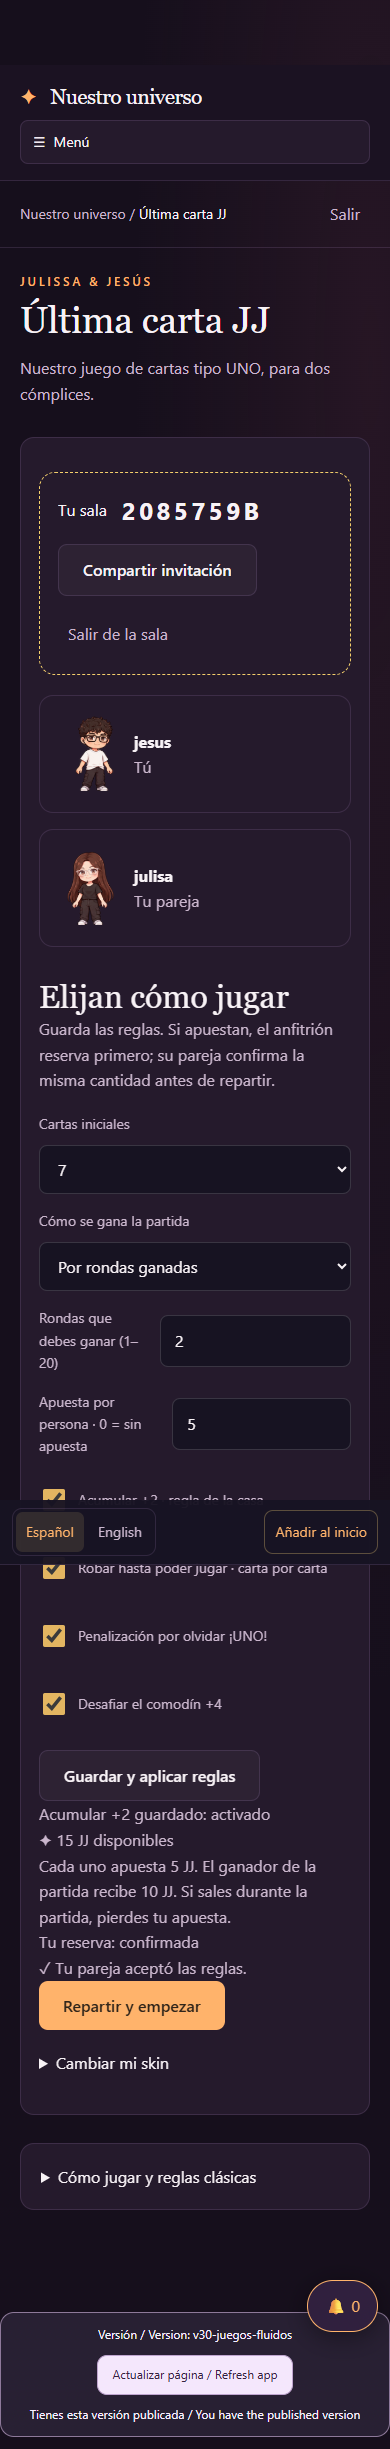
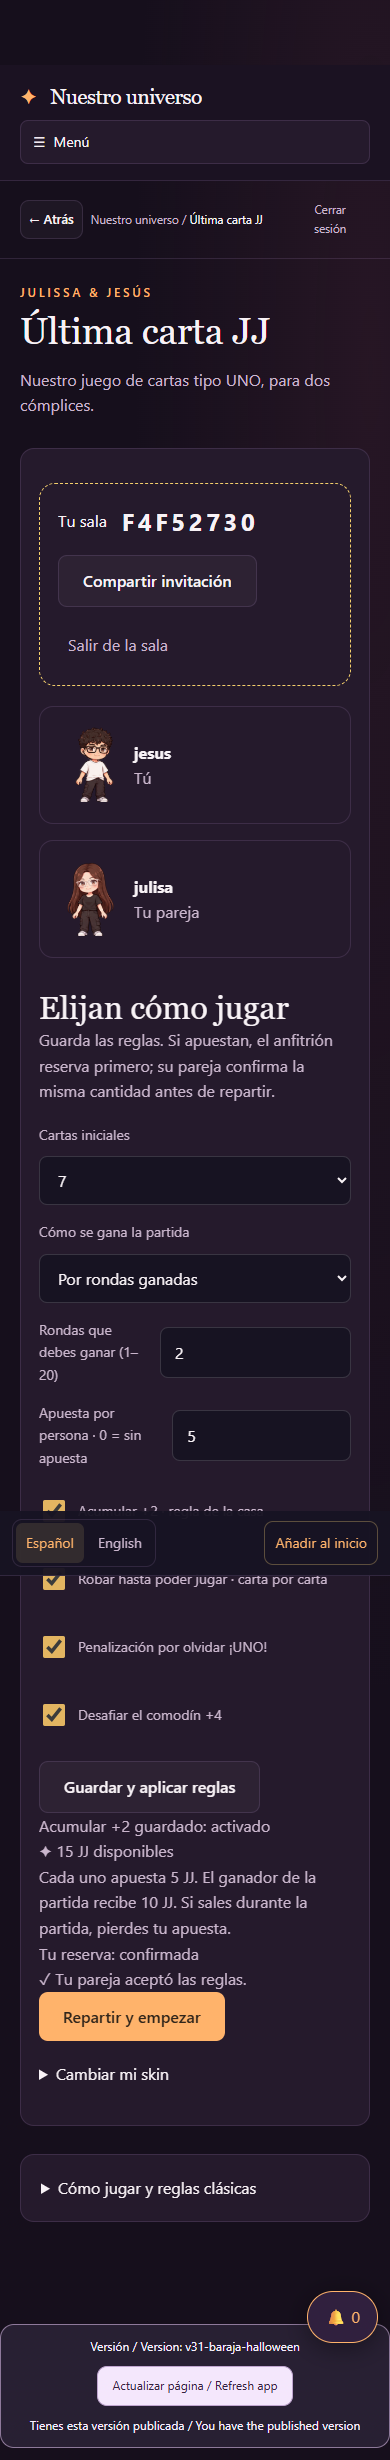
Añadir Atrás sin cerrar sesión, disfraces Halloween y baraja inglesa

diff --git a/jj-playing-cards.js b/jj-playing-cards.js
@@ -1,0 +1,62 @@
+'use strict';
+const PlayingModes={
+ eights:{es:'Ochos locos',en:'Crazy eights',icon:'8♣',esHelp:'Descarta por palo o valor. El 8 es comodín: elige el siguiente palo. Roba una carta por pulsación hasta poder jugar. Gana quien vacía su mano. Si se agota el mazo, se reciclan los descartes; si ambos quedan bloqueados, gana la mano más corta (empate si tienen la misma cantidad).',enHelp:'Match suit or rank. Eights are wild: choose the next suit. Draw one card per click until you can play. Empty your hand to win. Discards are recycled if needed; if both players are blocked, the shorter hand wins (equal counts tie).'},
+ twentyone:{es:'Veintiuno en duelo',en:'Twenty-one duel',icon:'21',esHelp:'Variante para ustedes dos, sin crupier. Recibe dos cartas, pide de una en una o plántate. As = 1 u 11; J, Q y K = 10. Gana el mayor total sin pasar de 21. Si ambos se pasan o igualan, hay empate. Las manos se revelan cuando ambos terminan. Sin dividir, doblar ni pagos especiales por 21.',enHelp:'A two-player house variant, without a dealer. Start with two cards, hit one at a time or stand. Aces count as 1 or 11; J, Q and K as 10. Highest total up to 21 wins. Equal totals or both busting tie. Hands are revealed after both finish. No splitting, doubling or special 21 payouts.'},
+ highcard:{es:'Carta alta',en:'High card',icon:'A♠',esHelp:'Cada uno destapa una carta. Cuando ambos lo hacen se comparan: el as es el más alto, seguido por K, Q, J, 10…2. Un mismo valor empata y no suma victorias. Se baraja de nuevo en cada ronda.',enHelp:'Each player flips one card. Compare them after both flip: ace is highest, followed by K, Q, J, 10…2. Matching ranks tie and add no wins. A fresh deck is shuffled each round.'}
+};
+const PlayingSuits=[['♣','Tréboles','Clubs'],['♦','Diamantes','Diamonds'],['♥','Corazones','Hearts'],['♠','Picas','Spades']];
+function playingCard(c,playable=false){if(c===null||c===undefined)return '<div class="pc-card back" aria-label="'+say('Carta oculta','Hidden card')+'"><span>J & J</span></div>';const suit=Math.floor(c/13),rank=c%13+1,label=({1:'A',11:'J',12:'Q',13:'K'})[rank]||rank;return `<${playable?'button':'div'} class="pc-card ${suit===1||suit===2?'red':''} ${playable?'playable':''}" ${playable?`data-pc-card="${c}"`:'role="img"'} aria-label="${label} ${say(PlayingSuits[suit][1],PlayingSuits[suit][2])}"><small>${label}<br>${PlayingSuits[suit][0]}</small><span>${PlayingSuits[suit][0]}</span></${playable?'button':'div'}>`;}
+function eightsPlayable(c,g){return c%13===7||Math.floor(c/13)===g.suit||(g.top%13!==7&&c%13===g.top%13);}
+menus.push(['playingcards','♠','Baraja inglesa']);UniverseGroups.games.push('playingcards');
+const playingVisibility=paintSectionVisibility;paintSectionVisibility=function(){playingVisibility();document.querySelectorAll('[data-nav="playingcards"]').forEach(el=>el.hidden=true);};
+const playingNavigate=navigate;let playingRequest=0,playingLanding=false;
+navigate=async function(page){if(!state.profile)return;const request=++playingRequest;if(!playingLanding){playingLanding=true;if(JJRooms.code('playingcards'))page='playingcards';}
+ if(page!=='playingcards'){await playingNavigate(page);if(request===playingRequest&&state.page==='games'&&sectionAllowed('playingcards')){$('#main').insertAdjacentHTML('afterbegin',universeCards([['playingcards','♠','Baraja inglesa','Playing cards']]));bindUniverseCards();}return;}
+ await loadSections();if(request!==playingRequest||!state.profile)return;if(!sectionAllowed(page))return playingNavigate('home');jjCleanup();clearTimers();state.page=page;state.version++;rememberRoute(historyRoute(page));shell();window.scrollTo(0,0);playingHub();
+};
+function playingHub(){
+ $('#main').innerHTML=lifeHeading('Baraja inglesa','Playing cards','52 cartas, tres formas de retarnos. Elige un modo.','52 cards, three ways to challenge each other. Choose a mode.')+`<form id="pc-hub-join" class="game-panel pc-join-hub"><h2>${bi('¿Tienes una invitación?','Have an invitation?')}</h2><label>${bi('Código de sala','Room code')}<input name="code" pattern="[A-Za-z0-9]{8}" required minlength="8" maxlength="8" value="${esc(JJRooms.code('playingcards'))}" placeholder="A1B2C3D4" autocomplete="off" autocapitalize="characters"></label><button class="btn">${bi('Unirme a esa sala','Join that room')}</button></form><div class="pc-modes">${Object.entries(PlayingModes).map(([id,m])=>`<article class="game-panel pc-mode"><span class="pc-mode-icon" aria-hidden="true">${m.icon}</span><h2>${bi(m.es,m.en)}</h2><p>${bi(m.esHelp,m.enHelp)}</p><button class="btn" data-pc-mode="${id}">${bi('Elegir este juego','Choose this game')}</button></article>`).join('')}</div>`;
+ document.querySelectorAll('[data-pc-mode]').forEach(b=>b.onclick=()=>openPlayingTable(b.dataset.pcMode));$('#pc-hub-join').onsubmit=e=>{e.preventDefault();openPlayingTable('eights',e.target.elements.code.value.trim().toUpperCase());};
+}
+async function openPlayingTable(selected,joinCode=null){if(!PlayingModes[selected]||!state.profile||!sectionAllowed('playingcards'))return;jjCleanup();clearTimers();state.page='playingcards';const v=++state.version;rememberRoute(historyRoute('playingcards','table:'+selected));shell();window.scrollTo(0,0);await playingTablePage(selected,v,joinCode);}
+async function playingTablePage(selected,v,joinCode){
+ const user=state.profile.id,current=()=>state.version===v&&state.profile?.id===user;let room=null,mode=selected,busy=false,polling=false,stopped=false,draft=null;
+ const key=()=>`jj-playing-room-${user}-${mode}`;
+ $('#main').innerHTML='<div id="pc-title"></div><div id="pc-body"></div><p id="pc-error" role="status"></p><details class="game-panel pc-help"><summary>'+bi('Cómo jugar','How to play')+'</summary><p id="pc-help"></p></details>';
+ const message=text=>{if(current())$('#pc-error').textContent=text;};
+ function save(){try{if(room)localStorage.setItem(key(),room.code);else localStorage.removeItem(key());}catch{}}
+ function fail(e){const errors={STALE:['La sala cambió. Vuelve a elegir tu acción.','The room changed. Choose your action again.'],INSUFFICIENT_COINS:['No tienes monedas disponibles suficientes.','Not enough available coins.'],BET_NOT_READY:['Primero deben reservar y aceptar la apuesta.','Reserve and accept the stake first.'],ROOM_NOT_FOUND:['La sala terminó o el código no coincide.','Room expired or the code is incorrect.'],NOT_YOUR_TURN:['Es el turno de tu pareja.','It is your partner’s turn.'],ILLEGAL_CARD:['Elige una carta del palo o valor actual, o un ocho.','Match the current suit or rank, or play an eight.'],DRAW_OR_PLAY:['Aún puedes robar o jugar una carta.','You can still draw or play a card.']};return say(...(Object.entries(errors).find(([k])=>e.message?.includes(k))?.[1]||['No se confirmó. Reintenta y comprueba SQL 31.','Unconfirmed. Retry and check SQL 31.']));}
+ async function send(action,data={},code=room?.code||''){
+  if(busy||!current()||!ensureLive())return;busy=true;message('');$('#pc-body').querySelectorAll('button,input').forEach(b=>b.disabled=true);
+  try{const d=await rpc('jj_table',{p_action:action,p_code:code,p_revision:room?.revision??null,p_data:action==='create'?{mode}:action==='flip'?{...data,round:room.game.round}:data});if(!current())return;
+   room=d.code?d:null;if(room&&mode!==room.mode){mode=room.mode;const route=historyRoute('playingcards','table:'+mode);history.replaceState({...route,jjDepth:JJHistory.depth},'');JJHistory.current=route;}
+   if(['rules','start','reset','leave'].includes(action))draft=null;save();
+  }catch(e){if(current()){message(fail(e));if(room)try{const fresh=await rpc('jj_table',{p_code:room.code});if(current())room=fresh;}catch{}}}
+  finally{busy=false;if(current())paint();}
+ }
+ async function refresh(){if(!room||busy||polling||stopped||!current())return;polling=true;try{const d=await rpc('jj_table',{p_code:room.code});if(current()&&!busy&&d.revision>room.revision){room=d;paint();}}catch(e){if(current()){message(fail(e));if(e.message?.includes('ROOM_NOT_FOUND')){room=null;save();paint();}}}finally{polling=false;}}
+ function avatars(){if(!current()||!room)return;document.querySelectorAll('[data-pc-avatar]').forEach(c=>{const p=room.players[+c.dataset.pcAvatar];if(p)JJWardrobe.draw(c,p.handle,p.skin);});}
+ function paint(){if(!current())return;const meta=PlayingModes[mode];$('#pc-title').innerHTML=lifeHeading(meta.es,meta.en,'Crea una sala o únete con el código.','Create a room or join with its code.');$('#pc-help').innerHTML=bi(meta.esHelp,meta.enHelp);
+  const root=$('#pc-body');root.dataset.revision=room?.revision||0;if(!room){root.innerHTML=JJRooms.entry('pc')+'<details><summary>'+bi('Cambiar mi skin','Change my skin')+'</summary><div id="pc-skin"></div></details>';$('#pc-create').onclick=()=>send('create');$('#pc-code').value=joinCode||JJRooms.code('playingcards');$('#pc-join-form').onsubmit=e=>{e.preventDefault();send('join',{},$('#pc-code').value.trim().toUpperCase());};JJWardrobe.picker($('#pc-skin')).catch(()=>{});return;}
+  const g=room.game,host=room.me===0;root.innerHTML=`<section class="game-panel"><details ${g?'':'open'}><summary>${bi('Sala','Room')} <strong translate="no">${esc(room.code)}</strong></summary><div class="room-invite">${jjButton('pc-copy','Compartir invitación','Share invite','btn secondary')}${jjButton('pc-leave','Salir de esta sala','Leave this room','text-button pc-leave')}<span id="pc-copy-status" role="status"></span></div></details><div class="pc-players">${room.players.map((p,i)=>`<div class="pc-person ${g?.turn===i&&!g.round_done?'active':''}"><canvas width="120" height="150" data-pc-avatar="${i}" aria-label="${esc(p.name)}"></canvas><div><strong translate="no">${esc(p.name)}</strong><p>${i===room.me?bi('Tú','You'):bi('Tu pareja','Your partner')}</p>${g?`<p>${g.wins[i]} / ${room.rules.wins} ${room.rules.wins===1?bi('ronda','round'):bi('rondas','rounds')}</p>`:''}</div></div>`).join('')}</div><div id="pc-area"></div></section>`;
+  $('#pc-copy').onclick=()=>JJRooms.copy(room.code,'playingcards',$('#pc-copy-status'));$('#pc-leave').onclick=()=>{if(!g||g.finished||confirm(room.bet?.state==='running'?say('Salir pierde tu apuesta y gana tu pareja. ¿Salir?','Leaving forfeits your stake to your partner. Leave?'):say('¿Terminar esta partida?','End this game?')))send('leave');};avatars();if(!g)lobby(host);else table(g,host);
+ }
+ function lobby(host){const r=host&&draft?draft:room.rules,bet=room.bet,stake=room.rules.stake;
+  $('#pc-area').innerHTML=`<h2>${bi('Preparar la partida','Prepare the match')}</h2>${!room.guest?`<p class="pc-summary">${bi('Comparte el código. Falta que se una tu pareja.','Share the code. Waiting for your partner to join.')}</p>`:''}<form id="pc-rules"><div class="pc-rules"><label>${bi('Rondas para ganar (1–20)','Rounds to win (1–20)')}<input name="wins" type="number" required min="1" max="20" value="${r.wins}" ${!host?'disabled':''}></label><label>${bi('Apuesta por persona · 0 = sin apuesta','Stake per person · 0 = no wager')}<input name="stake" type="number" required min="0" max="1000000" step="1" value="${r.stake}" ${!host?'disabled':''}></label>${mode==='eights'?`<label>${bi('Cartas iniciales (3–10)','Starting cards (3–10)')}<input name="hand" type="number" min="3" max="10" required value="${r.hand}" ${!host?'disabled':''}></label>`:''}</div>${host?jjButton('pc-save','Guardar y aplicar reglas','Save & apply rules','btn secondary'):''}</form><p id="pc-dirty" role="status"></p><p>✦ ${room.coins} JJ ${bi('disponibles','available')}</p><p>${stake?bi(`Cada uno apuesta ${stake} JJ. El ganador de la partida recibe ${stake*2} JJ. Salir durante la partida pierde tu apuesta.`,`Each player stakes ${stake} JJ. The match winner receives ${stake*2} JJ. Leaving an active match forfeits your stake.`):bi('Sin apuesta de monedas.','No coin wager.')}</p><div class="row">${stake&&host&&room.guest&&!['offered','running'].includes(bet?.state)?jjButton('pc-bet',`Reservar mi apuesta · ${stake} JJ`,`Reserve my stake · ${stake} JJ`):''}${host?jjButton('pc-start','Repartir y empezar','Deal & start'):jjButton('pc-ready',room.ready?'Listo ✓':stake?`Acepto las reglas y apuesto ${stake} JJ`:'Acepto las reglas · Estoy listo',room.ready?'Ready ✓':stake?`Accept rules & stake ${stake} JJ`:'Accept rules · I am ready')}</div><p role="status">${room.ready?bi('✓ Tu pareja aceptó. Ya pueden empezar.','✓ Your partner accepted. Ready to start.'):bet?.state==='offered'?bi('Reserva del anfitrión confirmada. Falta la aceptación de su pareja.','Host stake reserved. Waiting for their partner to accept.'):bi('Guarden las reglas y confirmen antes de repartir.','Save rules and confirm before dealing.')}</p>`;
+  const read=()=>{const f=$('#pc-rules').elements;return{wins:+f.wins.value,stake:+f.stake.value,hand:mode==='eights'?+f.hand.value:5};};
+  if(host){const dirty=()=>{draft=read();$('#pc-dirty').textContent=say('Cambios sin guardar. Aplica las reglas antes de empezar.','Unsaved changes. Apply rules before starting.');$('#pc-start').disabled=true;if($('#pc-bet'))$('#pc-bet').disabled=true;};$('#pc-rules').oninput=dirty;$('#pc-rules').onsubmit=e=>{e.preventDefault();send('rules',read());};$('#pc-start').disabled=!room.guest||!room.ready||!!draft;$('#pc-start').onclick=()=>send('start');if($('#pc-bet')){$('#pc-bet').disabled=!!draft;$('#pc-bet').onclick=()=>send('bet');}if(draft)dirty();}
+  else{$('#pc-ready').disabled=room.ready||!!stake&&!(bet?.state==='offered'&&bet.amount===stake);$('#pc-ready').onclick=()=>send('ready');}
+ }
+ function table(g,host){const me=room.me,mine=g.turn===me,active=!g.round_done;
+  $('#pc-area').innerHTML=`<p class="pc-summary">${bi('Ronda','Round')} ${g.round} · ${bi('Primero en ganar','First to win')} ${room.rules.wins} ${room.rules.wins===1?bi('ronda','round'):bi('rondas','rounds')}</p>${room.bet?`<p>${room.bet.amount} JJ ${bi('por persona','per player')} · ${room.bet.state==='paid'?bi('Bote entregado','Pot paid'):room.bet.state==='refunded'?bi('Apuesta devuelta','Stake refunded'):bi('Apuesta reservada','Stake reserved')}</p>`:''}<p class="pc-status" role="status">${g.round_done?g.winner===2?bi('Empate · no suma victorias','Tie · no wins added'):bi('Ronda terminada','Round over'):mode==='highcard'?(g.flipped[1-me]?bi('Tu pareja ya destapó. Destapa tu carta para comparar.','Your partner has flipped. Flip your card to compare.'):bi('Destapen sus cartas para comparar.','Flip your cards to compare.')):mine?bi('Tu turno','Your turn'):bi('Turno de tu pareja','Your partner’s turn')}</p><div id="pc-live"></div><div id="pc-actions" class="row"></div><div id="pc-result"></div>`;
+  const live=$('#pc-live'),actions=$('#pc-actions');
+  if(mode==='eights'){live.innerHTML=`<div class="pc-table">${playingCard(g.top)}<span>${bi('Palo actual','Current suit')}:<br>${PlayingSuits[g.suit][0]} ${bi(PlayingSuits[g.suit][1],PlayingSuits[g.suit][2])}<br>${g.deck_count} ${bi('en el mazo','in draw pile')}</span></div><p>${bi('Tu pareja tiene','Your partner has')} ${g.counts[1-me]} ${bi('cartas','cards')}.</p><h2>${bi('Tu mano','Your hand')}</h2><div class="pc-hand">${g.hand.map(c=>playingCard(c,active&&mine&&eightsPlayable(c,g))).join('')}</div>`;if(active&&mine){actions.innerHTML=jjButton('pc-draw','Robar 1 carta','Draw 1 card')+(!g.can_draw?jjButton('pc-pass','Pasar turno','Pass turn','btn secondary'):'');$('#pc-draw').onclick=()=>send('draw');if($('#pc-pass'))$('#pc-pass').onclick=()=>send('pass');}document.querySelectorAll('[data-pc-card]').forEach(b=>b.onclick=()=>{const c=+b.dataset.pcCard;if(c%13===7){modal(`<h2>${bi('Elige el siguiente palo','Choose the next suit')}</h2><div class="pc-suit-picker">${PlayingSuits.map((s,i)=>`<button class="btn secondary" data-pc-suit="${i}">${s[0]} ${bi(s[1],s[2])}</button>`).join('')}</div>`);document.querySelectorAll('[data-pc-suit]').forEach(el=>el.onclick=()=>{$('#modal').close();send('play',{card:c,suit:+el.dataset.pcSuit});});}else send('play',{card:c});});}
+  else if(mode==='twentyone'){live.innerHTML=`<h2>${bi('Tu mano','Your hand')} · ${g.value}</h2><div class="pc-hand">${g.hand.map(c=>playingCard(c)).join('')}</div><p>${g.value>21?bi('Te pasaste de 21.','You went over 21.'):g.stand[me]?bi('Te has plantado.','You have stood.'):bi('Puedes pedir otra carta o plantarte.','You may hit or stand.')}</p>`;if(active&&mine&&!g.stand[me]){actions.innerHTML=jjButton('pc-hit','Pedir 1 carta','Hit · 1 card')+jjButton('pc-stand','Plantarse','Stand','btn secondary');$('#pc-hit').onclick=()=>send('hit');$('#pc-stand').onclick=()=>send('stand');}}
+  else{live.innerHTML=`<div class="pc-table">${playingCard(g.hand[0]??null)}${playingCard(g.shown?.[1-me]?.[0]??null)}</div>`;if(active&&!g.flipped[me]){actions.innerHTML=jjButton('pc-flip','Destapar mi carta','Flip my card');$('#pc-flip').onclick=()=>send('flip');}else if(active)actions.innerHTML=bi('Esperando que tu pareja destape la suya…','Waiting for your partner to flip…');}
+  if(!active){const result=$('#pc-result');result.innerHTML=`<section class="pc-result"><h2>${g.winner===2?bi('Empate','Tie'):esc(room.players[g.winner]?.name||'J & J')+' 🏆'}</h2><p>${g.finished?bi('¡Partida ganada!','Match won!'):bi('Continúen con la siguiente ronda.','Continue with the next round.')}</p>${g.shown?`<div class="pc-revealed">${room.players.map((p,i)=>`<div><h3 translate="no">${esc(p.name)}</h3><div class="pc-hand">${g.shown[i].map(c=>playingCard(c)).join('')}</div></div>`).join('')}</div>`:''}${host?jjButton('pc-next',g.finished?'Nueva partida':'Siguiente ronda',g.finished?'New match':'Next round'):bi('Espera a que el anfitrión prepare la siguiente.','Wait for the host to prepare the next round.')}</section>`;if(host)$('#pc-next').onclick=()=>send(g.finished?'reset':'next');}
+ }
+ window.addEventListener('bb-art-ready',avatars);const timer=setInterval(()=>{if(!document.hidden)refresh();},1200);JJ.cleanups.push(()=>{stopped=true;clearInterval(timer);window.removeEventListener('bb-art-ready',avatars);});paint();
+ if(joinCode){await send('join',{},joinCode);return;}let saved;try{saved=localStorage.getItem(key());}catch{}if(saved&&!state.demo){try{const d=await rpc('jj_table',{p_code:saved});if(current()){room=d;paint();}}catch{try{localStorage.removeItem(key());}catch{}}}
+}
+
+const tableModal=modal;modal=function(html){const result=tableModal(html);if(!$('#jj-modal-back')){const b=document.createElement('button');b.id='jj-modal-back';b.className='btn secondary jj-page-back';b.innerHTML=bi('← Atrás','← Back');b.onclick=goJJBack;$('#modal').prepend(b);}return result;};

diff --git a/jj-navigation.js b/jj-navigation.js
@@ -1,8 +1,17 @@
 'use strict';
 // Native back traverses sections and game rooms, including in an installed PWA.
-const JJHistory={started:false,restoring:false,current:null,exiting:false,guardDialog:false};
+const JJHistory={started:false,restoring:false,current:null,exiting:false,guardDialog:false,depth:0};
 function historyRoute(page,game=null){return {jjUniverse:true,page,game};}
-function rememberRoute(route){if(JJHistory.restoring||!state.profile)return;if(!JJHistory.started){JJHistory.started=true;history.replaceState({...historyRoute('home'),guard:true},'');history.pushState(historyRoute('home'),'');JJHistory.current=historyRoute('home');}if(JSON.stringify(route)!==JSON.stringify(JJHistory.current)){history.pushState(route,'');JJHistory.current=route;}}
+function rememberRoute(route){
+ if(JJHistory.restoring||!state.profile)return;
+ if(!JJHistory.started){JJHistory.started=true;JJHistory.depth=0;history.replaceState({...historyRoute('home'),guard:true,jjDepth:0},'');history.pushState({...historyRoute('home'),jjDepth:0},'');JJHistory.current=historyRoute('home');}
+ const current=JJHistory.current&&historyRoute(JJHistory.current.page,JJHistory.current.game);
+ if(JSON.stringify(route)!==JSON.stringify(current)){history.pushState({...route,jjDepth:++JJHistory.depth},'');JJHistory.current=route;}
+}
+function goJJBack(){if($('#modal').open){if(!modalBusy)$('#modal').close();return;}if(JJHistory.depth>0)history.back();else if(state.page!=='home')navigate('home');}
+function updateBackButton(){const b=$('#jj-page-back');if(b)b.disabled=!JJHistory.depth&&state.page==='home';}
+const backShell=shell;shell=function(){backShell();const top=$('.topbar');if(top){const b=document.createElement('button');b.id='jj-page-back';b.className='btn secondary jj-page-back';b.innerHTML=bi('← Atrás','← Back');b.onclick=goJJBack;top.prepend(b);}document.querySelectorAll('[data-logout]').forEach(b=>b.innerHTML=bi('Cerrar sesión','Sign out'));updateBackButton();};
+
 const historyNavigate=navigate;
 navigate=async function(page){if(state.profile&&menus.some(m=>m[0]===page)&&!(page==='novios'&&state.profile.handle!=='jesus'))rememberRoute(historyRoute(page));await historyNavigate(page);};
 const historySurface=gameSurface;
@@ -14,9 +23,10 @@ duoPage=async function(kind,v){if(kind==='wands')rememberRoute(historyRoute('puz
 window.addEventListener('popstate',async e=>{
  if(JJHistory.exiting||!state.profile||!JJHistory.started)return;
  const route=e.state?.jjUniverse?e.state:{...historyRoute('home'),guard:true};
- if($('#modal').open){const guard=JJHistory.guardDialog;if(!modalBusy)$('#modal').close();if(!guard)history.pushState(JJHistory.current,'');return;}
- if(route.guard){JJHistory.restoring=true;try{await navigate('home');JJHistory.current=historyRoute('home');modal(`<h2>${bi('Ya estás en Inicio','You are already at Home')}</h2><p>${bi('¿Quieres quedarte en nuestro universo o salir de la página?','Would you like to stay in our universe or leave the page?')}</p><div class="row">${jjButton('stay-universe','Quedarme aquí','Stay here')}${jjButton('leave-universe','Salir de la página','Leave page','btn secondary')}</div>`);JJHistory.guardDialog=true;let leave=false;$('#modal').addEventListener('close',()=>{JJHistory.guardDialog=false;if(!leave)history.pushState(JJHistory.current,'');},{once:true});$('#stay-universe').onclick=()=>$('#modal').close();$('#leave-universe').onclick=()=>{leave=true;JJHistory.exiting=true;$('#modal').close();history.back();};}finally{JJHistory.restoring=false;}return;}
- JJHistory.restoring=true;JJHistory.current=route;try{await navigate(route.page);if(state.page!==route.page)return;if(route.game==='tictactoe')await historyTtt();else if(route.game==='wands'){jjCleanup();clearTimers();await historyDuo('wands',++state.version);}else if(route.game&&['wordsearch','maze'].includes(route.game))startPuzzle(route.game);else if(route.game)launchGame(route.game);}finally{JJHistory.restoring=false;}
+ if($('#modal').open){const guard=JJHistory.guardDialog;if(!modalBusy)$('#modal').close();if(!guard)history.pushState({...JJHistory.current,jjDepth:JJHistory.depth},'');return;}
+ JJHistory.depth=Math.max(0,route.jjDepth||0);
+ if(route.guard){JJHistory.restoring=true;try{await navigate('home');JJHistory.current=historyRoute('home');modal(`<h2>${bi('Ya estás en Inicio','You are already at Home')}</h2><p>${bi('¿Quieres quedarte en nuestro universo o salir de la página?','Would you like to stay in our universe or leave the page?')}</p><div class="row">${jjButton('stay-universe','Quedarme aquí','Stay here')}${jjButton('leave-universe','Salir de la página','Leave page','btn secondary')}</div>`);JJHistory.guardDialog=true;let leave=false;$('#modal').addEventListener('close',()=>{JJHistory.guardDialog=false;if(!leave)history.pushState({...JJHistory.current,jjDepth:JJHistory.depth},'');},{once:true});$('#stay-universe').onclick=()=>$('#modal').close();$('#leave-universe').onclick=()=>{leave=true;JJHistory.exiting=true;$('#modal').close();history.back();};}finally{JJHistory.restoring=false;}return;}
+ JJHistory.restoring=true;JJHistory.current=route;try{await navigate(route.page);if(state.page!==route.page)return;if(route.game==='tictactoe')await historyTtt();else if(route.game==='wands'){jjCleanup();clearTimers();await historyDuo('wands',++state.version);}else if(route.game&&['wordsearch','maze'].includes(route.game))startPuzzle(route.game);else if(route.game?.startsWith('table:'))await openPlayingTable(route.game.slice(6));else if(route.game)launchGame(route.game);}finally{JJHistory.restoring=false;updateBackButton();}
 });
 const historyLogout=logout;
-logout=async function(){await historyLogout();if(!state.profile){JJHistory.started=false;JJHistory.current=null;JJHistory.exiting=false;history.replaceState(null,'');}};
+logout=async function(){await historyLogout();if(!state.profile){JJHistory.started=false;JJHistory.depth=0;JJHistory.current=null;JJHistory.exiting=false;history.replaceState(null,'');}};

diff --git a/jj-playing-cards.css b/jj-playing-cards.css
@@ -1,0 +1,2 @@
+.jj-page-back{padding:8px 12px;white-space:nowrap;flex-shrink:0;font-size:.85rem}.topbar .breadcrumb{flex:1;min-width:0;overflow:hidden;text-overflow:ellipsis;white-space:nowrap}.pc-modes{display:grid;grid-template-columns:repeat(auto-fit,minmax(230px,1fr));gap:18px;margin:24px 0}.pc-mode{display:flex;flex-direction:column;gap:14px}.pc-mode .btn{margin-top:auto}.pc-table{display:flex;justify-content:center;align-items:center;gap:18px;min-height:170px;margin:18px 0;padding:20px;border-radius:22px;background:radial-gradient(ellipse,#31524f,#1d3032)}.pc-hand{display:flex;flex-wrap:wrap;gap:10px;margin:18px 0}.pc-card{width:74px;height:108px;flex-shrink:0;border:2px solid #ece3d0;border-radius:10px;position:relative;background:#fff8e9;color:#232737;display:grid;place-items:center;font-size:2rem;font-weight:bold;box-shadow:0 4px 8px #0004}.pc-card.red{color:#bb3f51}.pc-card small{position:absolute;top:6px;left:7px;font-size:.85rem;line-height:1}.pc-card.playable{cursor:pointer;outline:3px solid #f4cf6b;outline-offset:2px}.pc-card:disabled{opacity:.65}.pc-card.back{background:linear-gradient(135deg,#593555,#27364e);color:#f4cf6b;font-size:1.2rem}.pc-card span{line-height:1}.pc-summary{padding:12px;border-left:3px solid #f4cf6b;margin:14px 0}.pc-rules{display:grid;grid-template-columns:1fr 1fr;gap:14px;margin:20px 0}.pc-rules label{display:flex;flex-direction:column;gap:8px}.pc-players{display:grid;grid-template-columns:1fr 1fr;gap:10px}.pc-person{display:flex;gap:8px;align-items:center;padding:10px;border:1px solid #5e4769;border-radius:14px;min-width:0;overflow-wrap:anywhere}.pc-person.active{border-color:#f4cf6b}.pc-person canvas{width:48px;height:64px;flex-shrink:0}.pc-person p{font-size:.8rem;margin:4px 0}.pc-person strong{font-size:.95rem}.pc-result{margin:20px 0}.pc-mode-icon{font-size:2.3rem;color:#f4cf6b}.pc-join-hub{margin:20px 0}.pc-revealed{display:grid;grid-template-columns:1fr 1fr;gap:14px}.pc-revealed .pc-hand{gap:6px}.pc-revealed .pc-card{width:54px;height:80px;font-size:1.5rem}.pc-revealed h3{font-size:1rem}.pc-help{margin-top:24px}.pc-status{min-height:28px}.pc-leave{font-size:.85rem}.pc-suit-picker{display:grid;grid-template-columns:1fr 1fr;gap:12px}.pc-suit-picker button{min-height:60px}
+@media(max-width:600px){.topbar{gap:8px}.topbar .mobile-exit{font-size:.72rem;max-width:80px}.topbar .breadcrumb{font-size:.73rem}.jj-page-back{font-size:.8rem;padding:8px}.pc-rules{grid-template-columns:1fr}.pc-modes{grid-template-columns:1fr}.pc-card{width:65px;height:96px}.pc-table{padding:14px;gap:12px}.pc-players{gap:6px}.pc-person{padding:7px;gap:5px}.pc-person canvas{width:40px;height:56px}}

diff --git a/jj-halloween.js b/jj-halloween.js
@@ -1,0 +1,11 @@
+'use strict';
+const HalloweenSkins=[['ghost','Fantasma','Ghost',6,'#f5eefc'],['pumpkin','Calabaza','Pumpkin',6,'#f79732'],['vampire','Vampiro','Vampire',8,'#a32b46'],['skeleton','Esqueleto','Skeleton',7,'#d8d8e4'],['frankenstein','Frankenstein','Frankenstein',8,'#a6c87d'],['kitsune','Kitsune','Kitsune',10,'#ea8155'],['witch','Brujería lunar','Moon witch',8,'#9566c7'],['devil','Diablillo','Little devil',8,'#d64a53'],['zombie','Zombi','Zombie',7,'#8cad99']];
+BBSkins.push(...HalloweenSkins);
+const HalloweenArt=new Image();let HalloweenRequested=false;HalloweenArt.onload=()=>window.dispatchEvent(new Event('bb-art-ready'));
+const everydayCharacter=bbCharacter;
+bbCharacter=function(ctx,x,y,size,handle,skin='casual',time=0){const outfit=HalloweenSkins.findIndex(s=>s[0]===skin);if(outfit<0)return everydayCharacter(ctx,x,y,size,handle,skin,time);
+ if(!HalloweenRequested){HalloweenRequested=true;HalloweenArt.src='assets/bombitas/halloween-characters-v1.png';}
+ if(!HalloweenArt.complete||!HalloweenArt.naturalWidth)return everydayCharacter(ctx,x,y,size,handle,'casual',time);
+ const index=outfit*2+(handle==='julisa'?1:0),cw=HalloweenArt.naturalWidth/6,ch=HalloweenArt.naturalHeight/3,bob=time?Math.sin(time/110)*size*.025:0;
+ const height=size*1.24,width=height*cw/ch;ctx.save();ctx.translate(x,y+bob);ctx.drawImage(HalloweenArt,index%6*cw,Math.floor(index/6)*ch,cw,ch,-width/2,-size*.94,width,height);ctx.restore();
+};

diff --git a/i18n.js b/i18n.js
@@ -3,7 +3,7 @@
 'use strict';
 (() => {
   const dictionary = Object.assign(Object.create(null), {
-    'Tienda':'Shop','Última carta JJ':'Last Card JJ','Musicas':'Music','Noticias':'News','Comics':'Comics','Nueve regalos para ti':'Nine gifts for you','En vivo contigo':'Live with you','Te pienso':'Thinking of you','Perfiles':'Profiles','Calendario':'Calendar','Metas':'Goals','Eventos':'Events','Eliminaciones':'Deletions',
+    'Baraja inglesa':'Playing cards','Tienda':'Shop','Última carta JJ':'Last Card JJ','Musicas':'Music','Noticias':'News','Comics':'Comics','Nueve regalos para ti':'Nine gifts for you','En vivo contigo':'Live with you','Te pienso':'Thinking of you','Perfiles':'Profiles','Calendario':'Calendar','Metas':'Goals','Eventos':'Events','Eliminaciones':'Deletions',
     'Sopas y laberintos':'Word searches & mazes', 'Verdad o reto':'Truth or dare', 'Misiones JJ':'JJ missions', 'Temporadas':'Seasons', 'Un rincón para nosotros':'A little place for us', 'Trece juegos, dos nombres y una revancha pendiente.':'Thirteen games, two names and a rematch waiting.', 'Nuestro universo':'Our universe', 'Videoclips':'Music videos', 'Puzle secreto':'Secret puzzle', 'Nuestro universo /':'Our universe /',
     '21 de septiembre · para ti':'September 21 · for you', '21 de septiembre':'September 21',
     'Hay encuentros':'Some encounters', 'que se vuelven':'become an entire', 'universo.':'universe.',

diff --git a/index.html b/index.html
@@ -1,7 +1,7 @@
 <!doctype html>
 <html lang="es">
 <head>
-  <meta name="jj-release" content="v30-juegos-fluidos">
+  <meta name="jj-release" content="v31-baraja-halloween">
   <meta charset="UTF-8"><meta name="viewport" content="width=device-width, initial-scale=1, viewport-fit=cover">
   <meta name="theme-color" content="#171322">
   <meta name="apple-mobile-web-app-capable" content="yes">
@@ -63,12 +63,15 @@
   <script src="bombitas-session.js" defer></script>
   <script src="bombitas-wagers.js" defer></script>
   <script src="bombitas.js" defer></script>
+  <script src="jj-halloween.js" defer></script>
   <script src="bombitas-motion.js" defer></script>
   <script src="bombitas-play.js" defer></script>
   <script src="jj-navigation.js" defer></script>
   <script src="jj-universe.js" defer></script>
   <script src="jj-wardrobe.js" defer></script>
   <script src="jj-cards.js" defer></script>
+  <script src="jj-playing-cards.js" defer></script>
+  <link rel="stylesheet" href="jj-playing-cards.css">
   <link rel="stylesheet" href="jj-cards.css">
   <link rel="stylesheet" href="jj-universe.css">
   <script src="install.js" defer></script>

diff --git a/sw.js b/sw.js
@@ -2,7 +2,7 @@
 const BASE = new URL('./', self.location.href);
 // Scope-derived cache names prevent collisions with other projects on the same GitHub host.
 const PREFIX = `jj-offline-${BASE.pathname}-`;
-const CACHE = `${PREFIX}v30-juegos-fluidos`;
+const CACHE = `${PREFIX}v31-baraja-halloween`;
 const OFFLINE = new URL('offline.html', BASE).href;
 self.addEventListener('install',event=>{
   event.waitUntil(caches.open(CACHE).then(cache=>cache.add(OFFLINE)).then(()=>self.skipWaiting()));

diff --git a/ACTUALIZAR-BARAJA-HALLOWEEN-31.md b/ACTUALIZAR-BARAJA-HALLOWEEN-31.md
@@ -1,0 +1,48 @@
+# Atrás, Halloween y baraja inglesa
+
+## Instalar
+
+1. Incorpora esta propuesta a `main` para publicar los archivos.
+2. Después del SQL 30 anterior, abre Supabase → SQL Editor → New query.
+3. Copia **supabase/31-baraja-y-halloween.sql** y pulsa **Run**. No repitas los archivos antiguos.
+4. Actualiza la página en ambos dispositivos. Debe indicar **v31-baraja-halloween**.
+
+No se han aplicado cambios a Supabase de producción durante el desarrollo. Se conservan compras, monedas, títulos y partidas existentes.
+
+## Volver sin cerrar sesión
+
+**← Atrás**, en la cabecera, vuelve a la pantalla anterior de la navegación interna. Desde un juego vuelve a su selección; desde la selección vuelve al apartado anterior. Al inicio se desactiva si no existe una pantalla anterior. Los diálogos también tienen un botón Atrás para cerrarlos sin salir del perfil.
+
+El antiguo botón ambiguo «Salir» del encabezado ahora dice **Cerrar sesión**. Esa acción sí cierra la cuenta. «Salir de esta sala» termina una partida, y sigue siendo una acción distinta.
+
+La nueva baraja y Última carta conservan la sala al navegar a otro apartado o recargar; se recupera al abrir el modo en el mismo navegador. Bombitas conserva su comportamiento anterior de salir de la sala al abandonar el juego. En una partida de cartas con apuesta, una salida explícita de la sala cuenta como derrota; navegar Atrás no es una salida explícita.
+
+## Skins de Halloween
+
+Hay nueve prendas nuevas, cada una con versión de Jesús y Julissa: fantasma y calabaza (6 JJ), esqueleto y zombi (7 JJ), vampiro, Frankenstein, brujería y diablillo (8 JJ), y kitsune (10 JJ).
+
+Son ilustraciones nuevas creadas con la herramienta de imágenes integrada, usando como referencia sus personajes existentes. Se conservan sus rostros, lentes y estilo. Se compran en Tienda y se equipan en el armario compartido de los juegos compatibles. No cambian las reglas ni dan ventajas. Las compras anteriores no se sustituyen.
+
+Arte final: **assets/bombitas/halloween-characters-v1.png**. La referencia y los prompts de generación se documentan en **ARTE-HALLOWEEN-31.md**.
+
+## Games → Baraja inglesa
+
+Se usa la baraja de 52 cartas, sin comodines adicionales. Los tres modos tienen salas de dos personas, código de invitación y enlace para compartir. Uno crea la sala, guarda las reglas y reserva su apuesta si la hay; el otro se une y confirma. El anfitrión reparte cuando ambos están listos.
+
+- **Ochos locos:** combina palo o valor y usa el ocho para cambiar el palo. Se reparten cinco cartas por defecto, configurable de tres a diez. Robas una por pulsación. Se reciclan los descartes al agotarse el mazo. Si ambos quedan bloqueados, gana la mano más corta o empatan si tienen igual cantidad. Gana la ronda quien vacía su mano.
+- **Veintiuno en duelo:** variante de la casa para competir entre ustedes, sin crupier. Empiezan con dos cartas y pueden pedir o plantarse. El as vale uno u once y las figuras diez. Gana el mayor total sin pasar de 21; valores iguales o dos manos pasadas empatan. No hay dividir manos, doblar ni pagos especiales por un 21 inicial. Las manos se muestran al terminar ambos.
+- **Carta alta:** ambos destapan una carta; el as supera a K, Q, J y las cartas numéricas. Los valores iguales empatan. Se baraja de nuevo cada ronda. Se aceptan las dos pulsaciones simultáneas sin hacer repetir al segundo jugador por una revisión desactualizada.
+
+Referencias de las reglas: [Ochos locos de Bicycle](https://bicyclecards.com/how-to-play/crazy-eights) y [valores de Veintiuno de Bicycle](https://bicyclecards.com/how-to-play/blackjack). El duelo sin crupier y la resolución de bloqueos son las variantes descritas arriba.
+
+## Rondas y monedas
+
+El anfitrión elige de **1 a 20 rondas ganadas**. Un empate no suma victorias. La apuesta es por persona y por partida completa, no por cada ronda. **0 JJ** permite jugar sin apostar.
+
+Las reservas comparten el saldo de la tienda, los títulos, Bombitas y Última carta. No se pueden gastar las monedas reservadas. Ambos aceptan antes de comenzar; el servidor determina el resultado y entrega el bote una vez. Cambiar reglas antes de empezar devuelve la reserva anterior. Salir de una partida con apuesta en curso da la victoria a la pareja. La sala caduca después de cuatro horas sin jugadas y la reserva deja de bloquear las monedas.
+
+Las cartas ajenas y el mazo quedan privados en Supabase. Recargar recupera la partida, y los movimientos antiguos no se aplican dos veces.
+
+## Validación
+
+Pruebas en PostgreSQL embebido de los tres modos, valores de ases, ocho comodín, cartas ocultas, empates, rondas y apuestas; pruebas de dos navegadores con reservas, partida, pago, reconexión y skin compartida; navegación Atrás conservando el perfil y cierre de diálogos. También se revisan las 18 figuras del atlas y sus miniaturas de tienda. No se utilizaron cuentas reales.

diff --git a/ARTE-HALLOWEEN-31.md b/ARTE-HALLOWEEN-31.md
@@ -1,0 +1,13 @@
+# Arte de Halloween · herramienta integrada imagegen
+
+Salida final: `assets/bombitas/halloween-characters-v1.png`, atlas PNG con transparencia de 1536 × 1024, seis columnas y tres filas. Cada pareja de columnas corresponde a Jesús y Julissa. Filas: fantasma, calabaza, vampiro; esqueleto, Frankenstein, kitsune; brujería, diablillo, zombi.
+
+Referencia de identidad y estilo: `assets/bombitas/characters-v2.png`. No se reemplazó ese archivo. Se utilizó la herramienta integrada `image_gen.imagegen`; no se usó el modo CLI ni una API externa manual.
+
+## Prompt de generación
+
+Use case: identity-preserve, game sprite atlas. Reference image is identity/style only: preserve these two established chibi avatars, boy with short curly dark brown hair, black rectangular eyeglasses; girl with long straight chestnut hair and clear rounded eyeglasses, same faces/proportions/skin tones. Create ONE production sprite atlas of 18 FULL BODY Halloween costumes, precisely six equal-width columns by three equal-height rows. Transparent background, no text, no labels, no grid lines, no shadows, no props crossing cell boundaries. Exactly one centered front-facing standing character per cell, same scale and feet baseline in every cell, ample transparent padding around every figure (10% cell width, 7% cell height), no cropped heads or feet. Suggested landscape canvas 1800x1200 or same 3:2 aspect ratio. Read left to right: Row1 col1 boy ghost sheet hood with face/glasses visible, col2 girl ghost, col3 boy jack-o-lantern orange hoodie costume, col4 girl pumpkin hoodie, col5 boy elegant vampire black cape crimson lining small fangs, col6 girl vampire. Row2: boy skeleton black jumpsuit white bones; girl skeleton; boy cute Frankenstein green stitch makeup square cap purple jacket; girl Frankenstein; boy kitsune white fox ears mask worn on side head and nine-tail-inspired fox tail orange kimono; girl kitsune. Row3: boy wizard purple star robe pointed hat; girl witch purple robe pointed hat; boy little devil red horns red suit and short tail; girl little devil; boy cute zombie pale green makeup distressed teal hoodie; girl zombie. Keep recognizable faces and glasses visible for ALL costumes. Cute cozy detailed illustrated game art exactly matching reference, no gore, no frightening realism, no redesign of identities. Strict atlas cell alignment is essential for rendering.
+
+## Prompt de ajuste del encuadre
+
+Production sprite atlas cleanup. Keep ALL existing 18 avatars, their precise faces, glasses, costumes, left-to-right order, six-column three-row layout and illustration style. Preserve every detail and identity. ONLY correct framing/alignment for use as a game sprite sheet: shrink EACH individual figure, including ALL hat tips, ears, tails, capes and shoes, to fit ENTIRELY inside its own equal rectangular cell with at least 10% transparent empty padding at all four sides. No part may cross a cell boundary. All six columns equal width, all three rows equal height. All feet aligned at 88% height of each cell. Especially shrink the two wizard hats and kitsune tails; no cropping. Center each figure independently in its own cell. Transparent background only, no glow, gradients, shadows, text, lines or background paint. Exact same atlas content, framing repair only.
